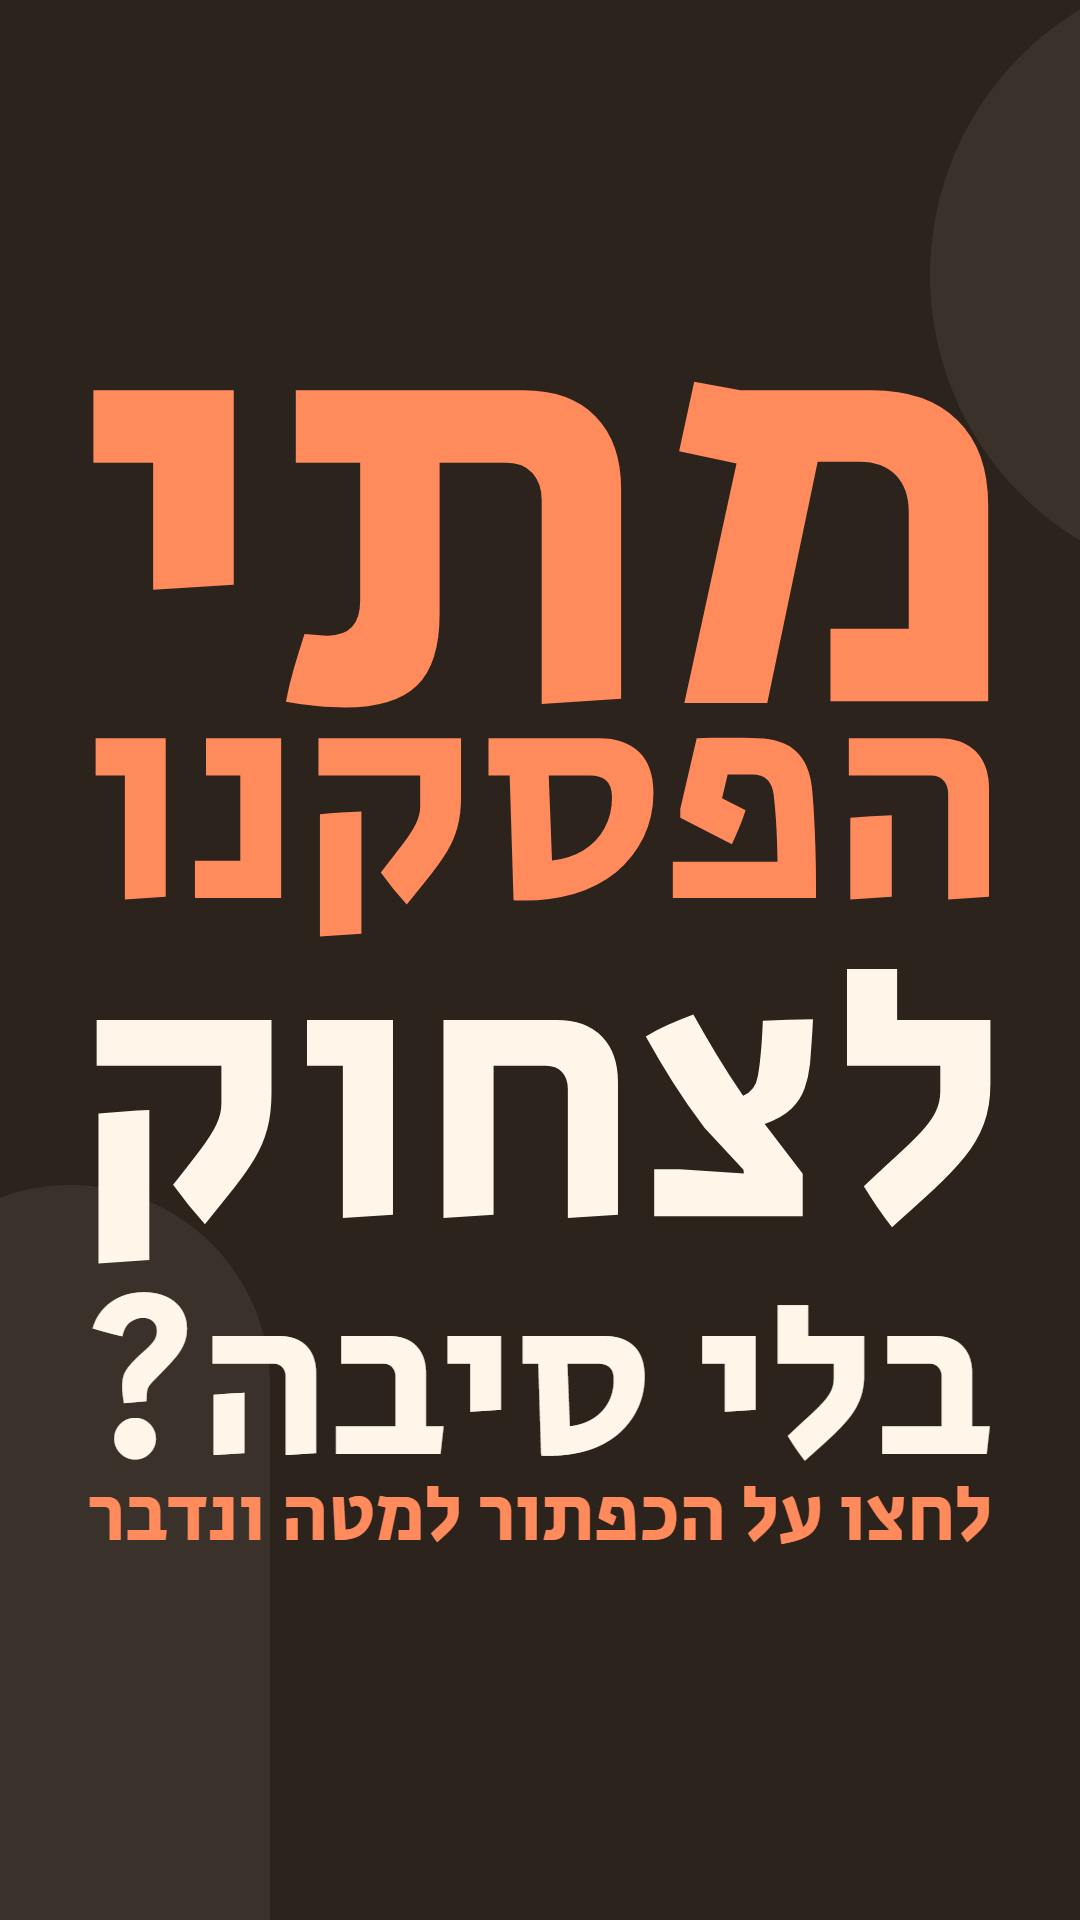
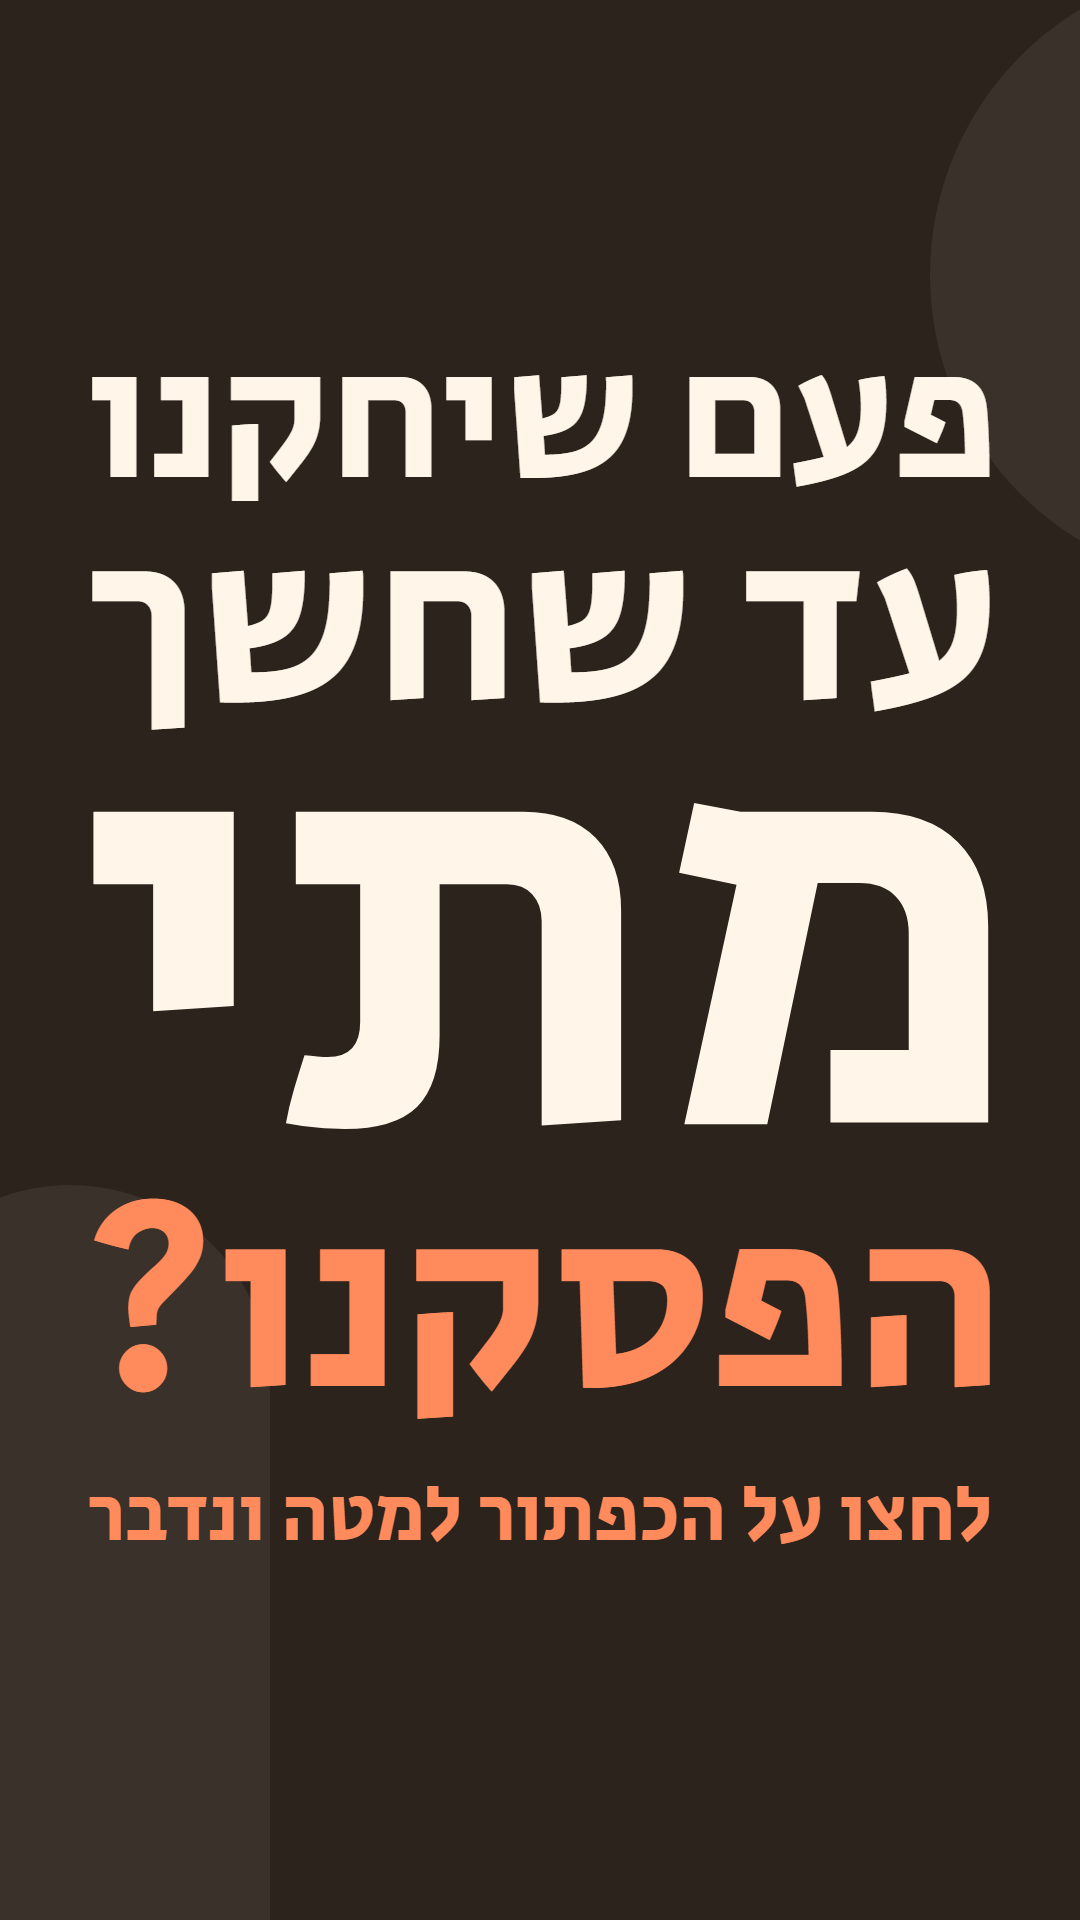
deploy test

Changed region(s): [[0.0611, 0.1875, 0.9167, 0.7812]]

diff --git a/ads/tools/build_chat_ads.py b/ads/tools/build_chat_ads.py
@@ -16,9 +16,9 @@ ADS = {
   "fear": ([("הכי קשה", "fg"), ("זה לא להיות לבד", "fg"), ("זה להיכנס לחדר", "fg"), ("מלא אנשים", "acc"), ("ולא לדעת מה להגיד", "fg")], "#FFD8AE"),
   "seen": ([("מתי בפעם האחרונה", "fg"), ("מישהו הסתכל", "fg"), ("עלינו", "fg"), ("באמת?", "acc")], "#EC7F78"),
   "seen2": ([("יש הבדל", "fg"), ("בין שמכירים אותנו", "fg"), ("לבין", "fg"), ("שרואים", "acc"), ("אותנו", "fg")], "#EC7F78"),
-  "lost": ([("מתי הפסקנו", "acc"), ("לצחוק", "fg"), ("בלי סיבה?", "fg")], "#FF8A5C"),
+  "lost": ([("פעם שיחקנו", "fg"), ("עד שחשך", "fg"), ("מתי", "fg"), ("הפסקנו?", "acc")], "#FF8A5C"),
   "dim": ([("אין על מה", "fg"), ("להתלונן", "fg"), ("ובכל זאת", "fg"), ("משהו בפנים", "fg"), ("כבוי", "acc")], "#8DB255"),
-  "years": ([("עוד שנה עברה", "fg"), ("ואנחנו רק", "fg"), ("מתפקדים", "acc")], "#E5562D"),
+  "years": ([("עוד שנה עברה", "fg"), ("ואנחנו עדיין", "fg"), ("מחכים", "acc"), ("שהחיים יתחילו", "fg")], "#E5562D"),
   "unseen": ([("מתי מישהו", "fg"), ("שאל מה שלומנו", "fg"), ("והתכוון", "acc"), ("לזה?", "fg")], "#EC7F78"),
   "crowd": ([("כל היום", "fg"), ("עם אנשים", "fg"), ("ובערב", "fg"), ("הכי לבד", "acc")], "#FFD8AE"),
   "numb": ([("הכי מפחיד", "fg"), ("זה לא שהכול רע", "fg"), ("זה שהכול בסדר,", "fg"), ("ואנחנו כבר", "acc"), ("לא מרגישים", "acc")], "#E5562D"),
